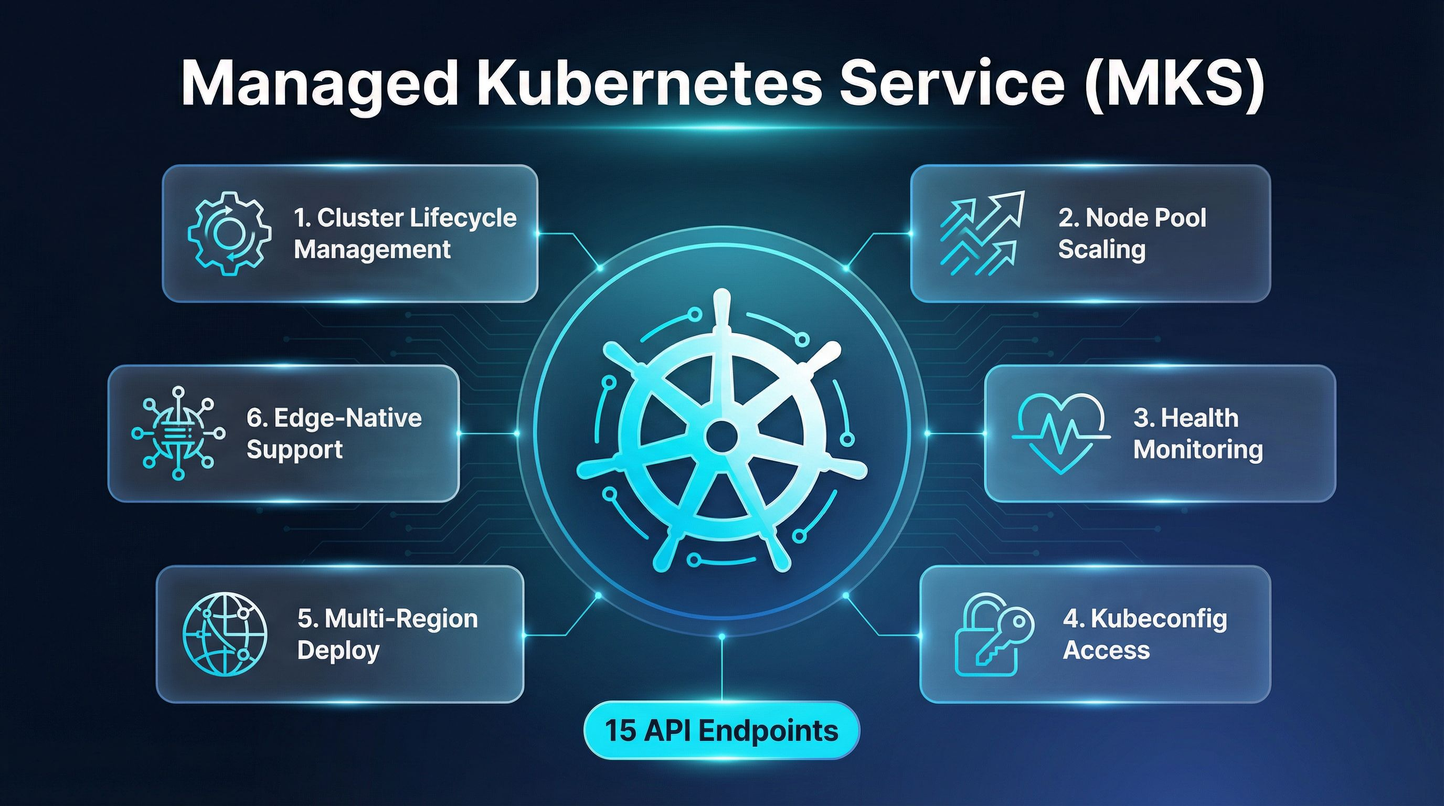
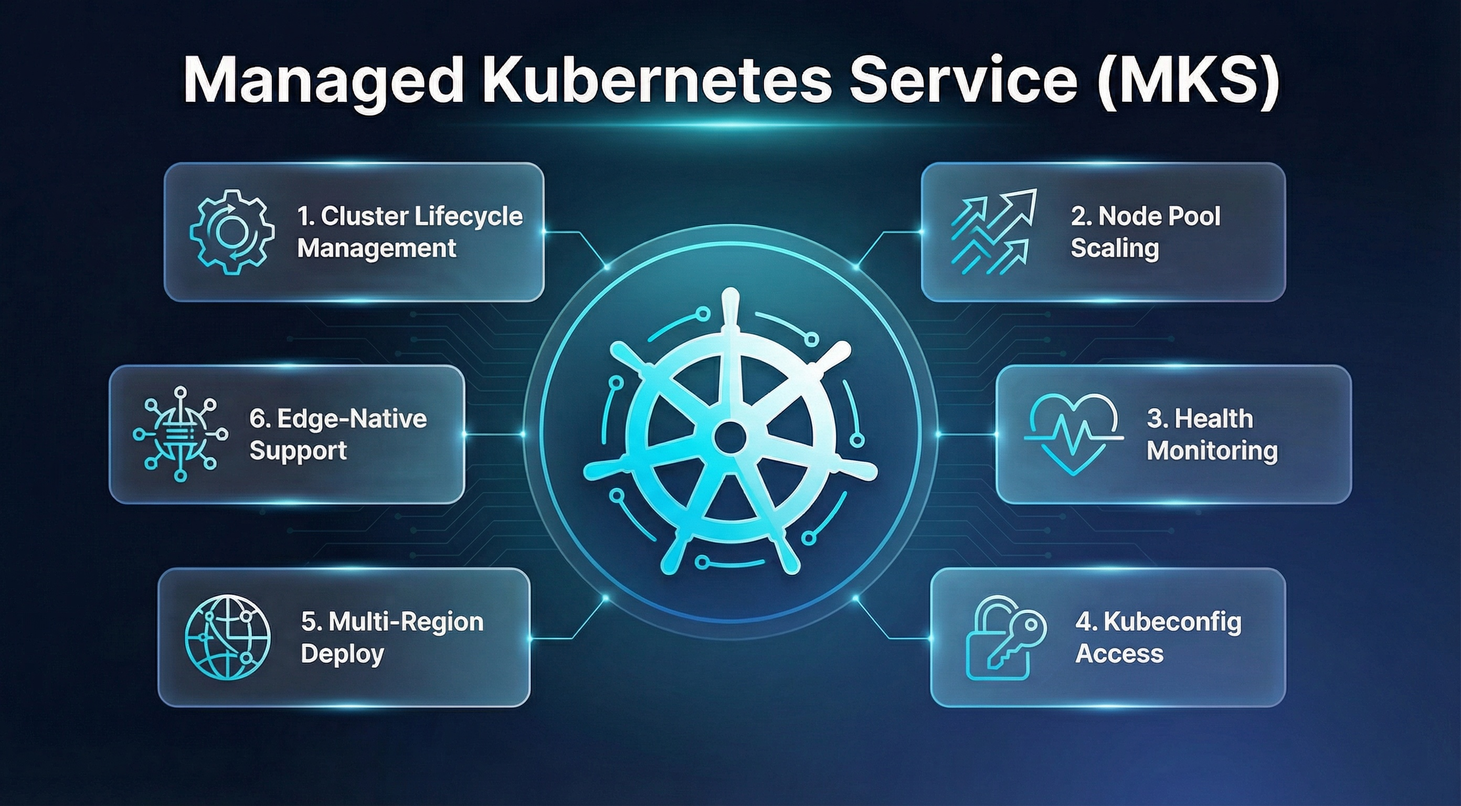
Remove redundant API endpoint counts from images and update HTML with cache-busters

diff --git a/index.html b/index.html
@@ -94,7 +94,7 @@
                 <p>Connect your shared and private OpenStack deployments to a single control plane. No more jumping between Horizon dashboards—manage everything through one powerful API.</p>
             </div>
             <div class="visual-showcase visual-large">
-                <img src="04_infrastructure.jpg" alt="Multi-Cluster OpenStack Infrastructure - cluster management, profiles, credentials, health monitoring" class="visual-image">
+                <img src="04_infrastructure.jpg?v=2" alt="Multi-Cluster OpenStack Infrastructure - cluster management, profiles, credentials, health monitoring" class="visual-image">
             </div>
             <div class="features-inline">
                 <div class="feature-inline-item">
@@ -151,7 +151,7 @@
                 <p>Spin up Kubernetes clusters on any of your connected OpenStack deployments with full lifecycle management, auto-scaling node pools, and real-time health monitoring</p>
             </div>
             <div class="visual-showcase visual-large">
-                <img src="02_kubernetes_mks.jpg" alt="Managed Kubernetes Service (MKS) - Cluster management, node pools, health monitoring" class="visual-image">
+                <img src="02_kubernetes_mks.jpg?v=2" alt="Managed Kubernetes Service (MKS) - Cluster management, node pools, health monitoring" class="visual-image">
             </div>
             <div class="features-inline">
                 <div class="feature-inline-item">
@@ -194,7 +194,7 @@
                 <p>Launch and manage VMs across your OpenStack clusters with cloud-init automation, per-instance firewalls, and comprehensive monitoring</p>
             </div>
             <div class="visual-showcase visual-large">
-                <img src="03_vm_mvms.jpg" alt="Managed Virtual Machine Service (MVMS) - Instance management, cloud-init, firewall rules" class="visual-image">
+                <img src="03_vm_mvms.jpg?v=2" alt="Managed Virtual Machine Service (MVMS) - Instance management, cloud-init, firewall rules" class="visual-image">
             </div>
             <div class="features-inline">
                 <div class="feature-inline-item">
@@ -237,7 +237,7 @@
                 <p>Two powerful services working together to give you complete programmatic control over your OpenStack infrastructure</p>
             </div>
             <div class="visual-showcase">
-                <img src="07_api_overview.jpg" alt="EdgeContinuum API-First Platform - IAM Service and REX API with 64 endpoints" class="visual-image">
+                <img src="07_api_overview.jpg?v=2" alt="EdgeContinuum API-First Platform - IAM Service and REX API with 64 endpoints" class="visual-image">
             </div>
             <div class="stats-row">
                 <div class="stat-card">
@@ -312,7 +312,7 @@
                 <p>Organize your OpenStack clusters by geographic region and availability zone for low-latency edge deployments</p>
             </div>
             <div class="visual-showcase visual-large">
-                <img src="06_regions_zones.jpg" alt="Global Edge Regions & Zones - Geographic distribution, availability zones, low latency" class="visual-image">
+                <img src="06_regions_zones.jpg?v=2" alt="Global Edge Regions & Zones - Geographic distribution, availability zones, low latency" class="visual-image">
             </div>
             <div class="features-inline">
                 <div class="feature-inline-item">
